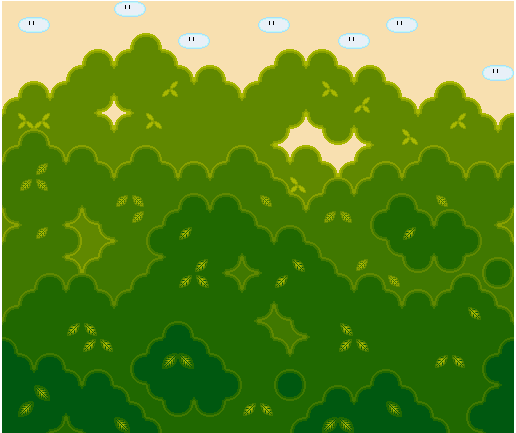
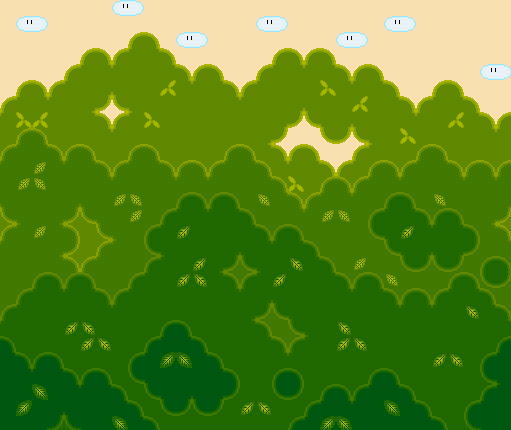
Implemented background scrolling on mouse click

diff --git a/Classes/TexCoords.mm b/Classes/TexCoords.mm
@@ -18,61 +18,62 @@ static const int TOP_RIGHT = 1;
 static const int BOTTOM_LEFT = 2;
 static const int BOTTOM_RIGHT = 3;
 
+
 + (TexCoords *) defaultTexCoords {
 	return [TexCoords texCoordsWithTopLeft:CGPointMake(0.0, 0.0) bottomRight:CGPointMake(1.0, 1.0)];
 }
 
 + (TexCoords *) texCoordsWithTopLeft:(CGPoint)topLeft bottomRight:(CGPoint)bottomRight {
 	TexCoords *texCoords = [[TexCoords alloc] init];
-	texCoords.textureCoords = [NSArray arrayWithObjects:[NSValue valueWithCGPoint:CGPointMake(topLeft.x, topLeft.y)],
-													    [NSValue valueWithCGPoint:CGPointMake(bottomRight.x, topLeft.y)],
-														[NSValue valueWithCGPoint:CGPointMake(topLeft.x, bottomRight.y)],
-														[NSValue valueWithCGPoint:CGPointMake(bottomRight.x, bottomRight.y)],
-														nil];
+	texCoords.textureCoords = new CGPoint[4];
+	texCoords.textureCoords[TOP_LEFT] = CGPointMake(topLeft.x, topLeft.y);
+	texCoords.textureCoords[TOP_RIGHT] = CGPointMake(bottomRight.x, topLeft.y);
+	texCoords.textureCoords[BOTTOM_LEFT] = CGPointMake(topLeft.x, bottomRight.y);
+	texCoords.textureCoords[BOTTOM_RIGHT] = CGPointMake(bottomRight.x, bottomRight.y);
 	
 	return texCoords;
 }
 
 - (void) setLeft:(GLfloat)x {
-	[[textureCoords objectAtIndex:TOP_LEFT] CGPointValue].x = x;
-	[[textureCoords objectAtIndex:BOTTOM_LEFT] CGPointValue].x = x;
+	textureCoords[TOP_LEFT].x = x;
+	textureCoords[BOTTOM_LEFT].x = x;
 }
 
 - (GLfloat) getLeft {
-	return [[textureCoords objectAtIndex:TOP_LEFT] CGPointValue].x;
+	return textureCoords[TOP_LEFT].x;
 }
 
 - (void) setRight:(GLfloat)x {
-	[[textureCoords objectAtIndex:TOP_RIGHT] CGPointValue].x = x;
-	[[textureCoords objectAtIndex:BOTTOM_RIGHT] CGPointValue].x = x;
+	textureCoords[TOP_RIGHT].x = x;
+	textureCoords[BOTTOM_RIGHT].x = x;
 }
 
 - (GLfloat) getRight {
-	return [[textureCoords objectAtIndex:TOP_RIGHT] CGPointValue].x;
+	return textureCoords[TOP_RIGHT].x;
 }
 
 - (void) setTop:(GLfloat)y {
-	[[textureCoords objectAtIndex:TOP_LEFT] CGPointValue].y = y;
-	[[textureCoords objectAtIndex:TOP_RIGHT] CGPointValue].y = y;
+	textureCoords[TOP_LEFT].y = y;
+	textureCoords[TOP_RIGHT].y = y;
 }
    
 - (GLfloat) getTop {
-	return [[textureCoords objectAtIndex:TOP_LEFT] CGPointValue].y;
+	return textureCoords[TOP_LEFT].y;
 }
 	   
 - (void) setBottom:(GLfloat)y {
-	[[textureCoords objectAtIndex:BOTTOM_LEFT] CGPointValue].y = y;
-	[[textureCoords objectAtIndex:BOTTOM_RIGHT] CGPointValue].y = y;
+	textureCoords[BOTTOM_LEFT].y = y;
+	textureCoords[BOTTOM_RIGHT].y = y;
 }
    
 - (GLfloat) getBottom {
-	return [[textureCoords objectAtIndex:BOTTOM_LEFT] CGPointValue].y;
+	return textureCoords[BOTTOM_LEFT].y;
 }
 
 - (void) convertToCArray:(GLfloat *) textureVertices {
 	for (uint i = 0; i < 4; i++) {
-		textureVertices[(i*2)] = [[textureCoords objectAtIndex:i] CGPointValue].x;
-		textureVertices[(i*2)+1] = [[textureCoords objectAtIndex:i] CGPointValue].y;
+		textureVertices[(i*2)] = textureCoords[i].x;
+		textureVertices[(i*2)+1] = textureCoords[i].y;
 	}
 }
 

diff --git a/Classes/Background.mm b/Classes/Background.mm
@@ -1,0 +1,101 @@
+//
+//  Background.mm
+//  DragonEye
+//
+//  Created by alkaiser on 4/6/12.
+//  Copyright 2012 __MyCompanyName__. All rights reserved.
+//
+
+#import "Background.h"
+
+@implementation Background
+
+@synthesize texture, 
+			leftBoundary,
+			rightBoundary,
+			scrollSpeed,
+			scrollDirection,
+			displayLink;
+
++ (Background *) backgroundWithTexture:(Texture *) texture scrollSpeed:(GLfloat)scrollSpeed {
+	Background *background = [[Background alloc] init];
+	background.texture = texture;
+	background.rightBoundary = 1.0;
+	background.scrollSpeed = 0.01;
+	background.scrollDirection = NO_WHERE;
+	
+	[background startAnimation];
+	return background;
+}
+
+- (void) draw {
+	TexCoords *texCoords = [TexCoords defaultTexCoords];
+	
+	/* PERF: Don't draw the side of the background that is not on the screen
+	   Maybe taken care of by OpenGL already */
+	
+	// Drawing the left side of the background
+	GLfloat shift = 1.0 - rightBoundary;
+	CGPoint position = CGPointMake(-shift, 0.0);
+
+	[GraphicsEngine drawTexture:texture 
+					  texCoords:texCoords 
+					   position:position
+						   size:CGSizeMake(1.0, 1.0) 
+					orientation:ORIENTATION_FORWARD];
+	
+	// Drawing the right side of the background
+	position.x += 2.0;
+	[GraphicsEngine drawTexture:texture 
+					  texCoords:texCoords 
+					   position:position 
+						   size:CGSizeMake(1.0, 1.0) 
+					orientation:ORIENTATION_FORWARD];
+}
+
+- (void) startAnimation {
+	CADisplayLink *aDisplayLink = [[CADisplayLink displayLinkWithTarget:self 
+															   selector:@selector(animate)] 
+								   retain];
+	[aDisplayLink setFrameInterval:1];
+	[aDisplayLink addToRunLoop:[NSRunLoop currentRunLoop] 
+					   forMode:NSDefaultRunLoopMode];
+	
+	self.displayLink = aDisplayLink;
+}
+
+- (GLfloat) wrapBoundary:(GLfloat) boundary {
+	if (boundary < -1.0) {
+		GLfloat shift = 1.0 + boundary;
+		boundary = 1.0 + shift;
+	} else if (boundary > 1.0) {
+		GLfloat shift = 1.0 - boundary;
+		boundary = -1.0 + shift;
+	}	
+	
+	return boundary;
+}
+
+- (void) update {
+}
+
+- (void) animate {
+	if (scrollDirection == LEFT) {
+		rightBoundary -= scrollSpeed;
+	} else if (scrollDirection == RIGHT) {
+		rightBoundary += scrollSpeed;
+	}
+	
+	rightBoundary = [self wrapBoundary:rightBoundary];
+	DLOG("Right boundary: %f", rightBoundary);
+}
+	 
+- (void) scroll:(Direction) direction {
+	scrollDirection = direction;
+}
+
+- (void) stopScrolling {
+	scrollDirection = NO_WHERE;
+}
+
+@end

diff --git a/Classes/Background.h b/Classes/Background.h
@@ -1,0 +1,42 @@
+//
+//  Background.h
+//  DragonEye
+//
+//  Created by alkaiser on 4/6/12.
+//  Copyright 2012 __MyCompanyName__. All rights reserved.
+//
+
+#import <Foundation/Foundation.h>
+#import "Drawable.h"
+#import "Texture.h"
+#import "PropState.h"
+#import "GraphicsEngine.h"
+#import "Loggers.h"
+
+@interface Background : NSObject <Drawable> {
+	CADisplayLink *displayLink;
+	Texture *texture;
+	GLfloat leftBoundary, rightBoundary; 
+	GLfloat scrollSpeed;
+	Direction scrollDirection;
+}
+
+@property (nonatomic, retain) CADisplayLink *displayLink;
+@property (nonatomic, retain) Texture *texture;
+@property (nonatomic, assign) GLfloat leftBoundary, rightBoundary, scrollSpeed;
+@property (nonatomic, assign) Direction scrollDirection;
+
++ (Background *) backgroundWithTexture:(Texture *) texture scrollSpeed:(GLfloat)scrollSpeed;
+
+- (void) startAnimation;
+- (GLfloat) wrapBoundary:(GLfloat) boundary;
+
+// From Drawable protocol
+- (void) draw;
+- (void) update;
+- (void) animate;
+
+- (void) scroll:(Direction) direction;
+- (void) stopScrolling;
+
+@end

diff --git a/Classes/GameController.mm b/Classes/GameController.mm
@@ -10,6 +10,7 @@
 #import "GameController.h"
 
 static Program * program = [Program getProgram];
+static Background *background = nil;
 static Node *node = nil;
 
 @implementation GameController
@@ -56,9 +57,7 @@ static Node *node = nil;
 										  size:CGSizeMake(0.1, 0.1)
 								   spriteSheet:overlaySprite];
 	
-	Overlay *background = [Overlay overlayAtPosition:CGPointMake(0, 0) 
-												size:CGSizeMake(1, 1)
-										 spriteSheet:backgroundSprite];
+	background = [Background backgroundWithTexture:backgroundTexture scrollSpeed:0.01f];
 	
 	[[ObjectContainer singleton] addObject:background];
 	[[ObjectContainer singleton] addObject:player];
@@ -196,6 +195,7 @@ static Node *node = nil;
 		[node hide];
 	}
 	
+	[background scroll:RIGHT];
 }
 
 - (void) gameLoop

diff --git a/Classes/TexCoords.h b/Classes/TexCoords.h
@@ -9,14 +9,15 @@
 #import <Foundation/Foundation.h>
 #import <OpenGLES/ES2/gl.h>
 #import <OpenGLES/ES2/glext.h>
+#import "Loggers.h"
 
 // A class to encapsulate texture coordinates used by OpenGL
 // Only supports square shaped ones at the moment
 @interface TexCoords : NSObject {
-	NSArray *textureCoords;
+	CGPoint *textureCoords;
 }
 
-@property (nonatomic, retain) NSArray *textureCoords;
+@property (nonatomic) CGPoint *textureCoords;
 
 + (TexCoords *) defaultTexCoords;
 + (TexCoords *) texCoordsWithTopLeft:(CGPoint)topLeft bottomRight:(CGPoint)bottomRight;

diff --git a/Classes/PhysicsEngine.mm b/Classes/PhysicsEngine.mm
@@ -59,7 +59,7 @@ static void debug(Center, Center, float, float, float);
 						 pow((otherProp.size.height / 2.0), 2)
 						);
 	
-	debug(center, center2, radius1, radius2, distance);
+	//debug(center, center2, radius1, radius2, distance);
 	
 	if(distance <= (radius1 + radius2)) {
 		if(count % 180 == 0) {

diff --git a/Classes/GameController.h b/Classes/GameController.h
@@ -16,6 +16,7 @@
 #import "Program.h"
 #import "Player.h"
 #import "Overlay.h"
+#import "Background.h"
 #import "Node.h"
 #import "Loggers.h"
 #import "ShaderConstants.h"

diff --git a/Classes/GraphicsEngine.h b/Classes/GraphicsEngine.h
@@ -13,6 +13,7 @@
 #import "SpriteSheet.h"
 #import "ShaderConstants.h"
 #import "Player.h"
+#import "Loggers.h"
 
 @class Player;
 
